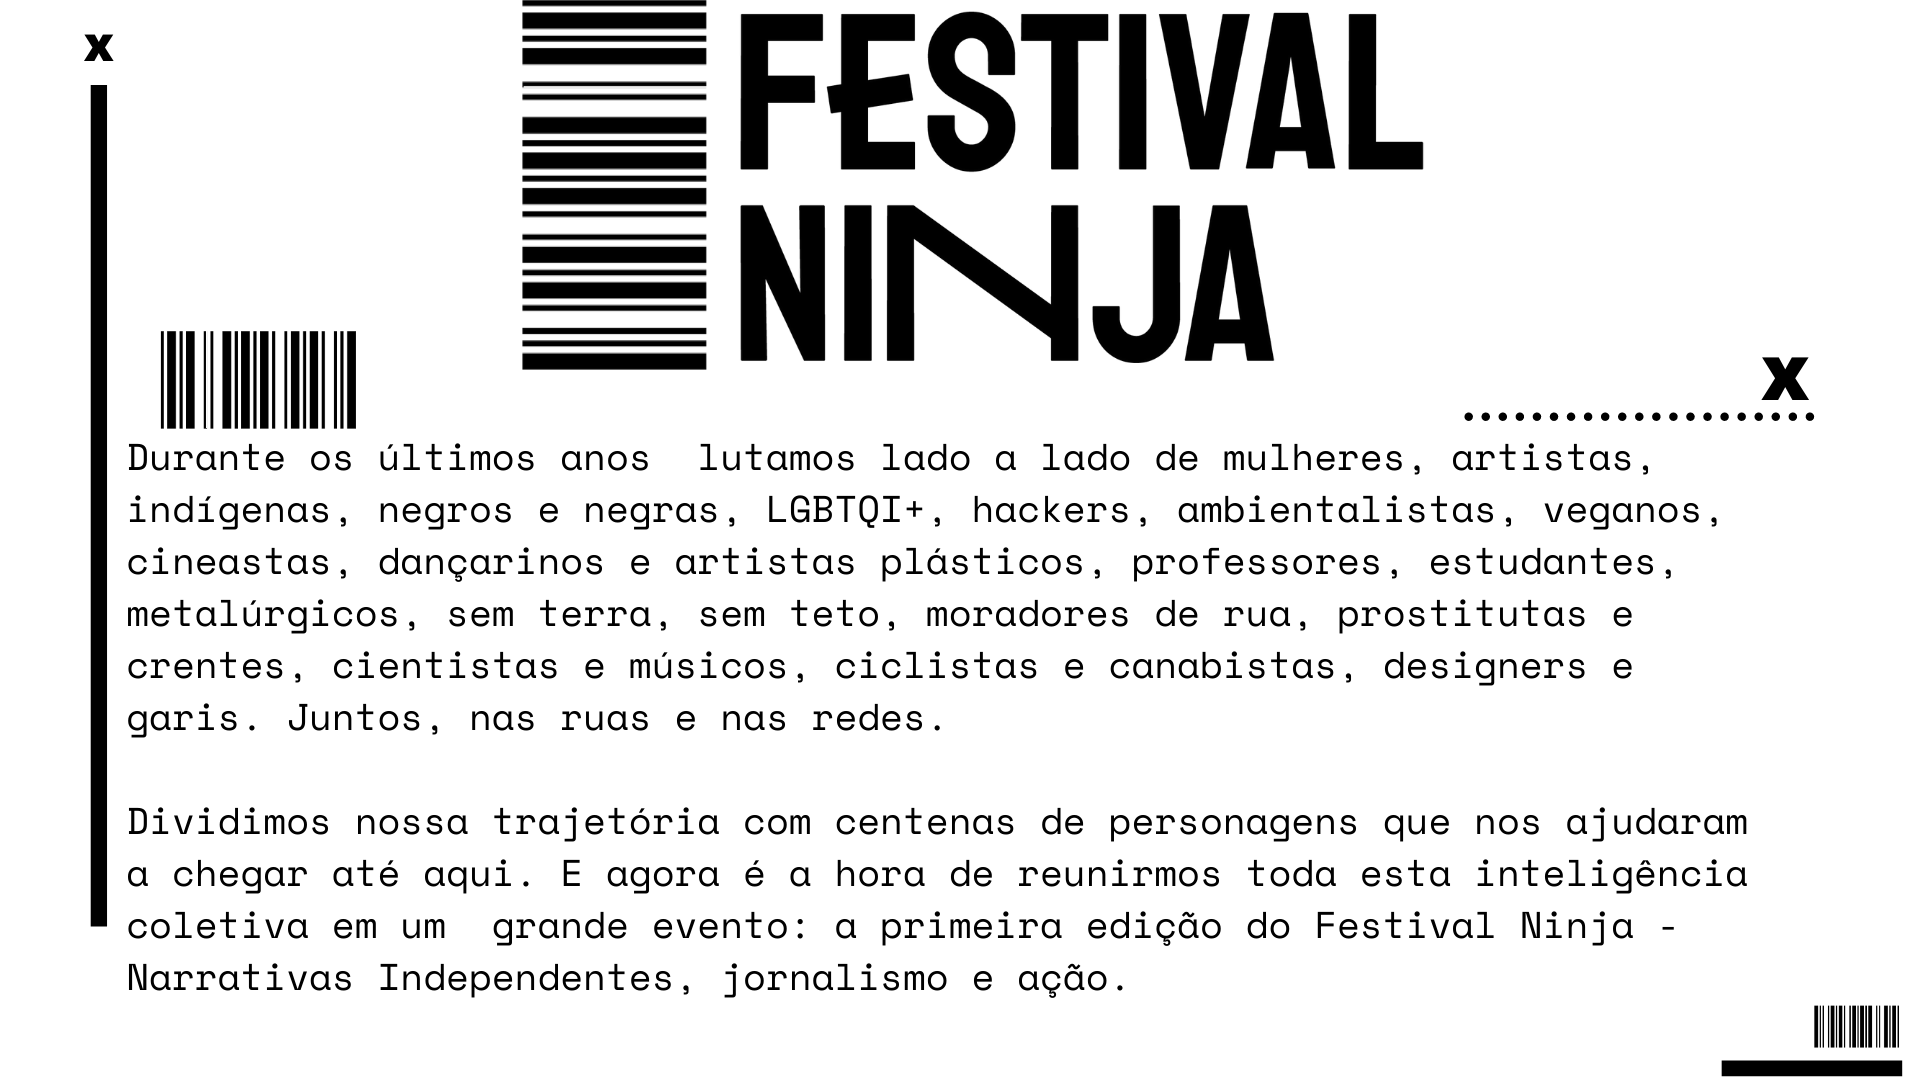
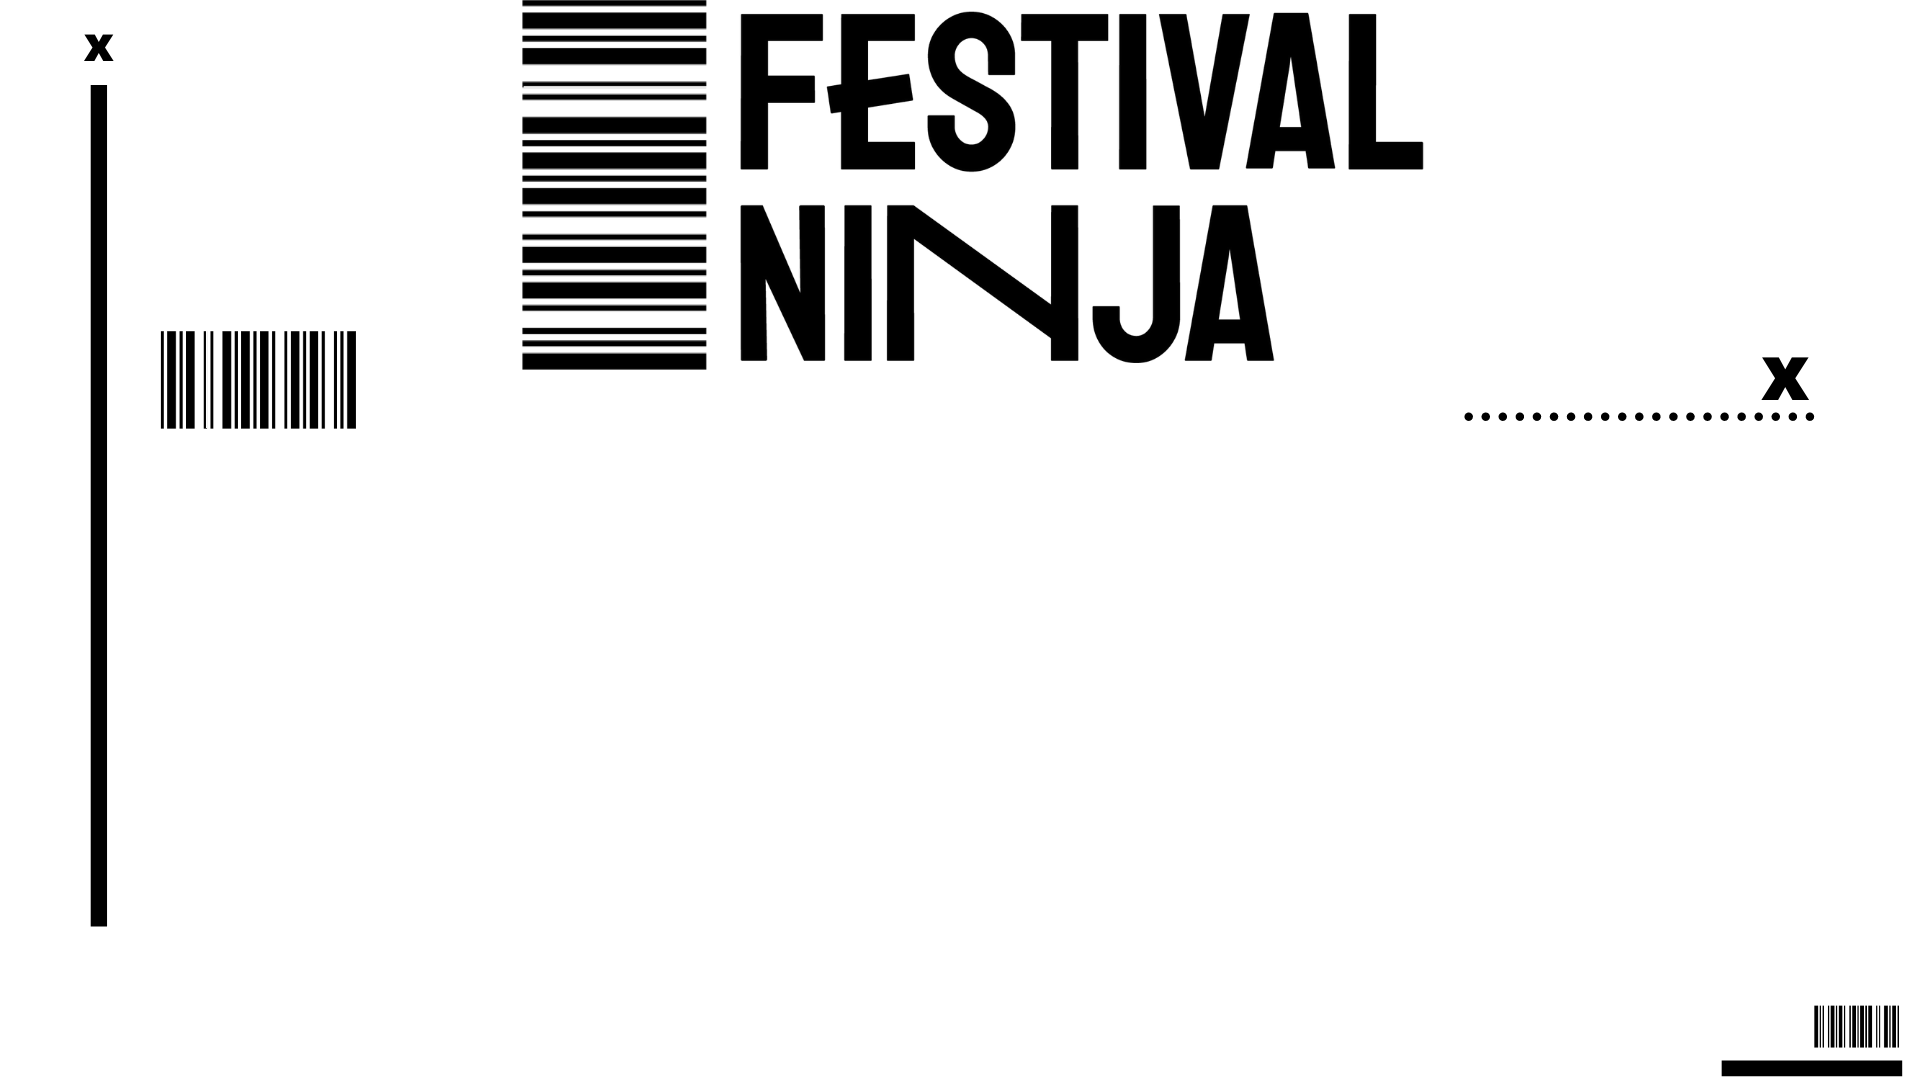
Texto extraído da imagem

diff --git a/fontes/index.html b/fontes/index.html
@@ -127,8 +127,18 @@
 </center>
     <div class="container">
         <div class="row">
-            <div  class="col s12">
-               <center> <img src="img/div2.png" style="width: 100%"> </center>
+            <div  class="col s12 relative">
+              <center>
+		<img src="img/div2.png" style="width: 100%">
+	      </center>
+	      <div class="texto">
+		  <p>
+		    Durante os último anos lutamos lado a lado de mulheres, artistas, indígenas, negros e negras, LGBTQI+, hackers, ambientalistas, veganos, cineastas, dançarinos e artistas plásticos, professores, estudantes, metalúrgicos, sem terra, sem teto, moradores de rua, prostitutas e crentes, cientistas e músicos, ciclistas e canabistas, designers e garis. Juntos, nas ruas e nas redes.
+		  </p>
+		  <p>
+		    Dividimos nossa trajetória com centenas de personagens que nos ajudaram a chegar até aqui. E agora é a hora de reunirmos toda esta inteligência coletiva em um grande evento: a primeira edição do Festival Ninja - Narrativas Independentes, jornalismo e ação.
+		  </p>
+		</div>
                <br>
                <br>
             </div>

diff --git a/fontes/css/style.css b/fontes/css/style.css
@@ -117,6 +117,17 @@ footer#contact .container.about-us img {border-radius:14px;}
   background-color: #FF00CB;
 }
 
+.relative {
+  position: relative;
+}
+
+.texto {
+  position: absolute;
+  top: 14vw;
+  left: 6vw;
+  font-size: 1.4vw;
+}
+
 @media only screen and (max-width:1100px) {
   .subtitle {
     font-size: 6vw;
@@ -124,6 +135,11 @@ footer#contact .container.about-us img {border-radius:14px;}
   }
   .highlight {
     font-size: 6vw;
+  }
+  .texto {
+    top: 15vw;
+    left: 7vw;
+    font-size: 1.3vw;
   }
 }
 
@@ -135,6 +151,11 @@ footer#contact .container.about-us img {border-radius:14px;}
   .highlight-background {
     margin-top: 10px;
     font-size: 7vw;
+  }
+  .texto {
+    top: 18vw;
+    left: 8vw;
+    font-size: 1.6vw;
   }
 }
 
